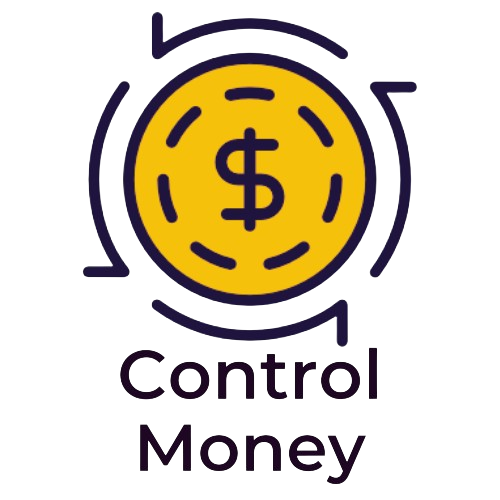
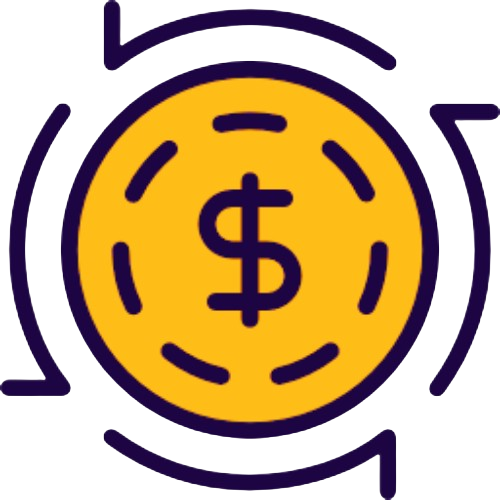
troquei o icone

diff --git a/componentes/login/login.css b/componentes/login/login.css
@@ -28,11 +28,11 @@ body {
 	font-family: var(--fonte-secundaria);
 }
 
-.icone {
-	width: 165px;
-  height: auto;
-	position: relative;
-	bottom: 4%;
+h1 {
+	font-family: var(--fonte-principal);
+	color: var(--cor-primaria);
+	font-size: 24px;
+	margin-bottom: 4%;
 }
 
 form {
@@ -40,7 +40,7 @@ form {
 	flex-direction: column;
 	align-items: center;
 	background-color: var(--cor-primaria);
-	padding: 20px;
+	padding: 25px 5px 20px 5px;
 	border-radius: 5px;
 	box-shadow: 0 0 10px rgba(0, 0, 0, 0.1);
 	width: 100%;
@@ -48,7 +48,7 @@ form {
 }
 
 label {
-	padding: 10px;
+	padding: 1%;
 	font-size: 14px;
 	color: var(--cor-secundaria);
 }
@@ -92,9 +92,16 @@ input {
 	color: var(--cor-secundaria);
 	text-decoration: none;
 	font-size: 15px;
-	padding: 50px 10px 10px 10px;
+	padding: 30px 0px 0px 0px;
 }
 
 .criarConta:hover {
 	color: var(--cor-quartenaria);
+}
+
+.icone {
+	width: 60px;
+  height: auto;
+	position: relative;
+	top: 4%;
 }

diff --git a/index.html b/index.html
@@ -11,7 +11,7 @@
 
 <body>
   <main class="container d-flex flex-column justify-content-center align-items-center vh-100">
-    <img src="/imagens/icon.png" alt="Icone" class="icone">
+    <h1>Control Money</h1>
 
     <form class="w-100" style="max-width: 400px;">
       <div class="mb-3">
@@ -29,6 +29,8 @@
       <a href="/componentes/criarConta/criarConta.html" class="d-flex justify-content-center mb-3 w-100 text-decoration-none criarConta">Criar Conta</a>
 
     </form>
+
+    <img src="/imagens/icon.png" alt="Icone" class="icone">
   </main>
 
   <script src="https://cdn.jsdelivr.net/npm/bootstrap@5.3.3/dist/js/bootstrap.bundle.min.js" integrity="sha384-YvpcrYf0tY3lHB60NNkmXc5s9fDVZLESaAA55NDzOxhy9GkcIdslK1eN7N6jIeHz" crossorigin="anonymous"></script>

diff --git a/componentes/criarConta/criarConta.html b/componentes/criarConta/criarConta.html
@@ -30,7 +30,7 @@
         <a href="componentes/perfil/perfil.html" class="botao">Criar Conta</a>
     </form>
 
-    <img src="/imagens/icon2.png" alt="Icone" class="icone">
+    <img src="/imagens/icon.png" alt="Icone" class="icone">
 
     <script src="https://cdn.jsdelivr.net/npm/bootstrap@5.3.3/dist/js/bootstrap.bundle.min.js" integrity="sha384-YvpcrYf0tY3lHB60NNkmXc5s9fDVZLESaAA55NDzOxhy9GkcIdslK1eN7N6jIeHz" crossorigin="anonymous"></script>
   </main>

diff --git a/componentes/perfil/perfil.css b/componentes/perfil/perfil.css
@@ -55,10 +55,12 @@ main {
 .configuracoes {
 	color: var(--cor-primaria);
 	margin: 0% 0% 3% 0%;
+	font-size: 16px;
 }
 
 .documentacao {
 	color: var(--cor-primaria);
+	font-size: 11px;
 }
 
 .rodape {

diff --git a/componentes/criarConta/criarConta.css b/componentes/criarConta/criarConta.css
@@ -80,8 +80,8 @@ input {
 }
 
 .icone {
-	width: 90px;
+	width: 60px;
   height: auto;
 	position: relative;
-	top: 5%;
+	top: 4%;
 }
